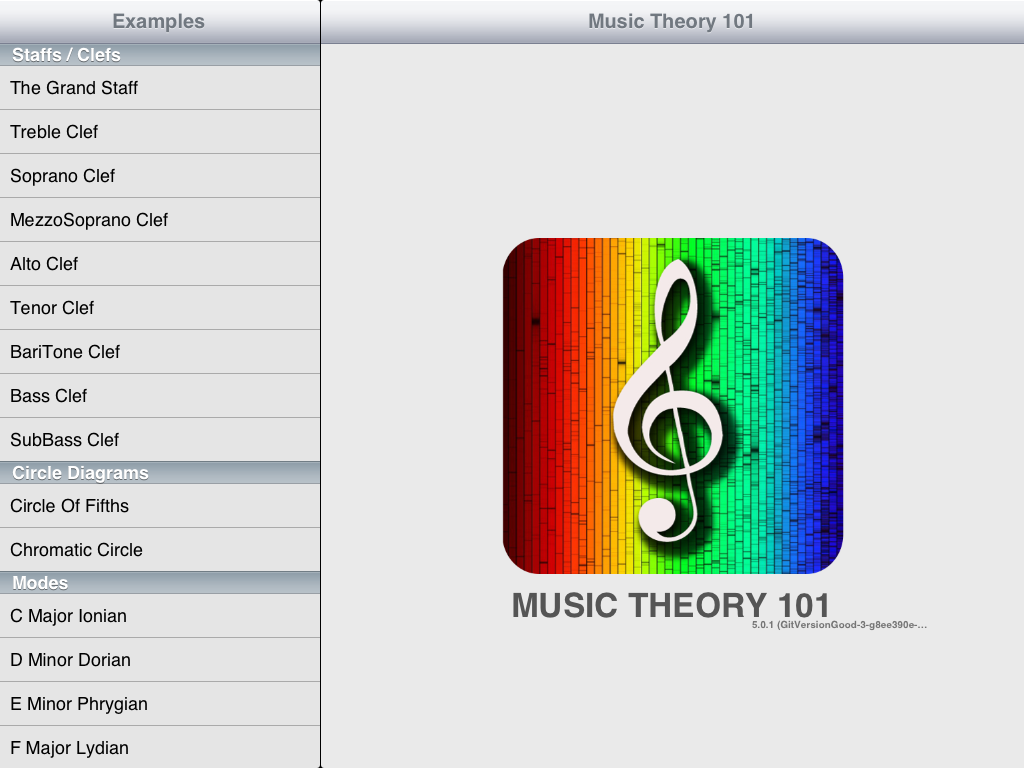
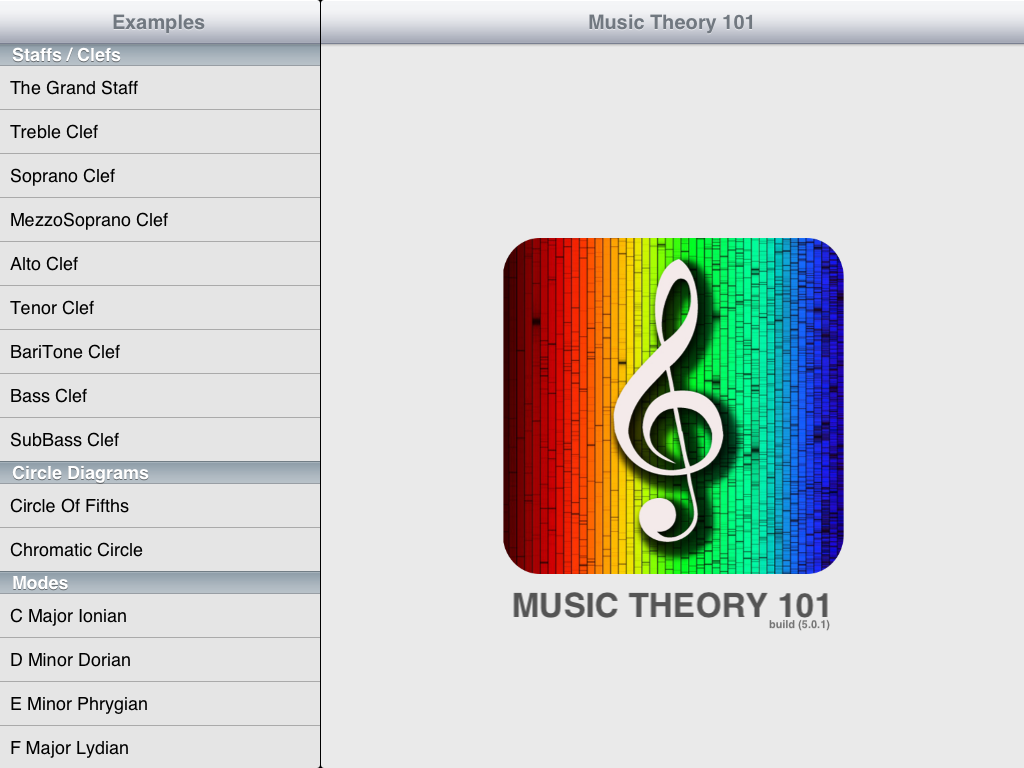
..

diff --git a/MT101/MT101/DetailViewController.m b/MT101/MT101/DetailViewController.m
@@ -669,14 +669,14 @@
     }
 
 #if TARGET_IPHONE_SIMULATOR
-        self.musicTheory101Label.backgroundColor =
-        [UIColor colorWithRed:0.988 green:0.000 blue:0.027 alpha:0.100];
+    //self.musicTheory101Label.backgroundColor =
+    //  [UIColor colorWithRed:0.988 green:0.000 blue:0.027 alpha:0.100];
 
-        self.detailDescriptionLabel.backgroundColor =
-        [UIColor colorWithRed:0.051 green:0.000 blue:0.988 alpha:0.100];
+    //  self.detailDescriptionLabel.backgroundColor =
+    //  [UIColor colorWithRed:0.051 green:0.000 blue:0.988 alpha:0.100];
 
-        self.vLabel.backgroundColor =
-        [UIColor colorWithRed:0.988 green:0.878 blue:0.000 alpha:0.100];
+    //  self.vLabel.backgroundColor =
+    //  [UIColor colorWithRed:0.988 green:0.878 blue:0.000 alpha:0.100];
 #endif
 
     if (self.detailItem) {}

diff --git a/MT101/ExampleView.m b/MT101/ExampleView.m
@@ -90,7 +90,7 @@
     // CGRect rect = VIEWBOUNDS;//self.superview.frame;
 
 #if TARGET_IPHONE_SIMULATOR
-        self.alpha = 0.5;
+    //self.alpha = 0.5;
 #endif
     [self setContentMode:(UIViewContentModeScaleAspectFit)];
     // [self setAutoresizingMask:(UIViewAutoresizingNone)];
